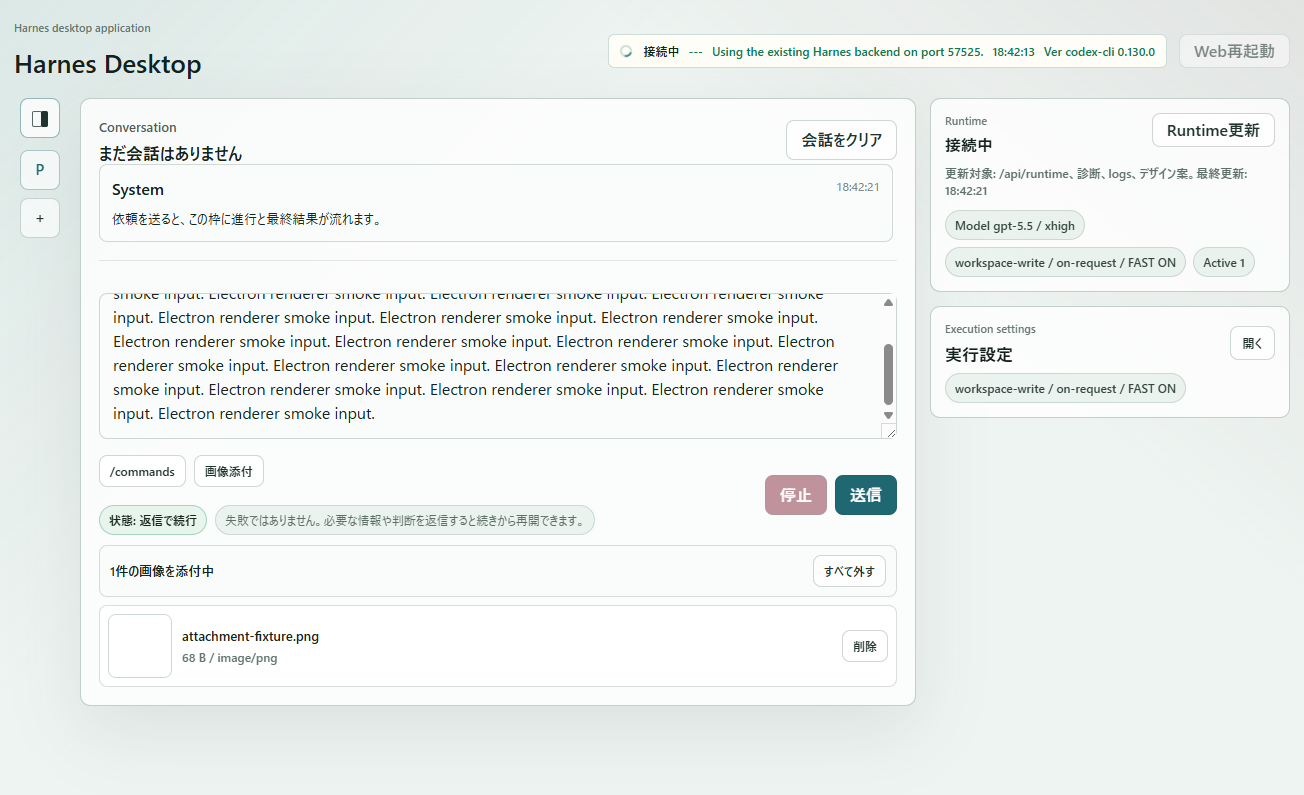
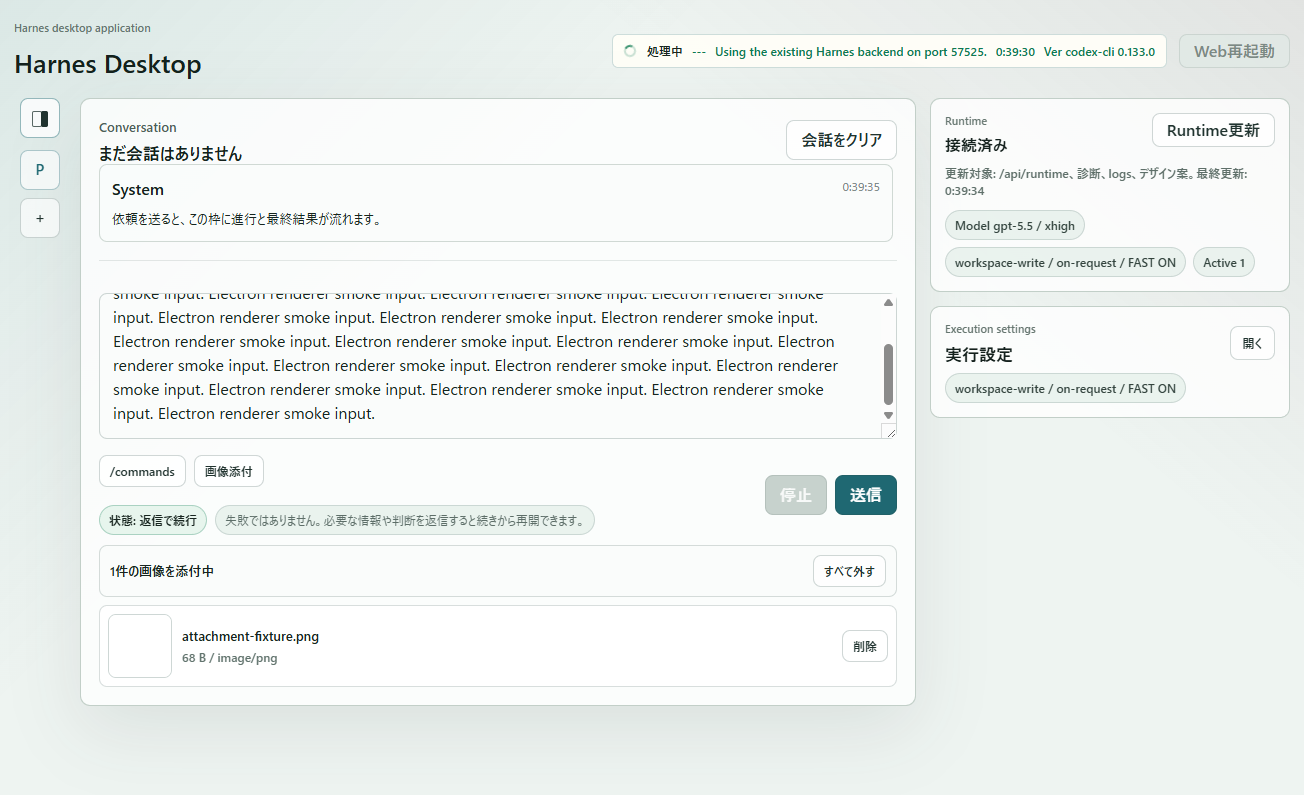
Harden Electron HarnesUI verification

diff --git a/desktop/harnes-electron/src/App.tsx b/desktop/harnes-electron/src/App.tsx
@@ -573,6 +573,9 @@ export default function App() {
     activeChat ? activeRequests.find((request) => request.chatId === activeChat.id) || null : null
   ), [activeChat, activeRequests]);
   const hasActiveRequests = activeRequests.length > 0;
+  const activeExec = runtimeActiveExecCount(runtime);
+  const topbarBusy = hasActiveRequests || activeExec > 0;
+  const codexVersionLabel = codexCliVersionLabel(diagnostics);
   const existingWebUiUrl = useMemo(() => joinUrl(backendUrl, "/01.HarnesUI/index.html"), [backendUrl]);
   const proposalUrl = useMemo(() => joinUrl(backendUrl, proposal?.publicPath || "/design-proposals/latest/index.html"), [backendUrl, proposal]);
 
@@ -731,8 +734,15 @@ export default function App() {
     const oldWebStatusLabel = compactText(document.querySelector(".old-web-status strong")?.textContent, "");
     const runtimePanelLabel = compactText(document.querySelector(".runtime-panel h2")?.textContent, "");
     const runningStatusSpinner = document.querySelector(".old-web-status.running .old-web-status-spinner");
+    const processingStatusSpinner = document.querySelector(".old-web-status.processing .old-web-status-spinner");
     const readyStatusSpinnerStopped = backend.status !== "running"
       || Boolean(runningStatusSpinner && window.getComputedStyle(runningStatusSpinner).animationName === "none");
+    const processingStatusSpinnerActive = Boolean(
+      processingStatusSpinner && window.getComputedStyle(processingStatusSpinner).animationName !== "none",
+    );
+    const topbarStatusValid = topbarBusy
+      ? oldWebStatusLabel === "処理中" && processingStatusSpinnerActive
+      : oldWebStatusLabel === "待機中" && readyStatusSpinnerStopped;
     const runtimeRefreshExplained = Boolean(document.querySelector(".runtime-refresh-note"));
     const attachmentRowsReady = Boolean(document.querySelector(".attachment-panel"));
     window.__harnesElectronSmoke = {
@@ -757,13 +767,31 @@ export default function App() {
       missionMetaVisible,
       oldWebStatusVisible,
       oldWebStatusLabel,
+      activeExec,
+      topbarBusy,
+      topbarStatusValid,
       runtimePanelLabel,
       readyStatusSpinnerStopped,
+      processingStatusSpinnerActive,
+      runtimeRefreshIdle: !runtimeRefreshState.loading,
+      codexCliVersionReady: !codexVersionLabel.includes("未読込"),
       runtimeRefreshExplained,
       attachmentRowsReady,
       layoutOk,
     };
-  }, [backend.status, logs?.entries?.length, proposal?.proposalTitle, proposalUrl, runtime, sidebarOpen, runtimeRefreshState.lastAt]);
+  }, [
+    activeExec,
+    backend.status,
+    logs?.entries?.length,
+    proposal?.proposalTitle,
+    proposalUrl,
+    codexVersionLabel,
+    runtime,
+    runtimeRefreshState.loading,
+    runtimeRefreshState.lastAt,
+    sidebarOpen,
+    topbarBusy,
+  ]);
 
   const openLocal = useCallback((target: string) => {
     if (window.harnesDesktop) {
@@ -783,16 +811,24 @@ export default function App() {
 
   const deleteActiveChat = useCallback(() => {
     if (!activeChat) return;
+    if (activeChatRequest) {
+      setLoadError("実行中の依頼は、停止してから削除してください。");
+      return;
+    }
     setChats((current) => {
       const next = current.filter((chat) => chat.id !== activeChat.id);
       const fallback = next[0] || createChat();
       setActiveChatId(fallback.id);
       return next.length ? next : [fallback];
     });
-  }, [activeChat]);
+  }, [activeChat, activeChatRequest]);
 
   const clearActiveChat = useCallback(() => {
     if (!activeChat) return;
+    if (activeChatRequest) {
+      setLoadError("実行中の依頼は、停止してからクリアしてください。");
+      return;
+    }
     patchChat(activeChat.id, (chat) => ({
       ...chat,
       messages: [],
@@ -803,7 +839,7 @@ export default function App() {
       forceNewSession: true,
       updatedAt: new Date().toISOString(),
     }));
-  }, [activeChat, patchChat]);
+  }, [activeChat, activeChatRequest, patchChat]);
 
   const updateSetting = useCallback(<K extends keyof RunSettings>(key: K, value: RunSettings[K]) => {
     setSettings((current) => ({ ...current, [key]: value }));
@@ -911,7 +947,6 @@ export default function App() {
     }
   }, [activeChat, activeChatRequest, attachments, mission, patchChat, runtime?.activeAgent, runtime?.workspaceRoot, settings]);
 
-  const activeExec = runtimeActiveExecCount(runtime);
   const activeChatWorkState = workStateForChat(activeChat, {
     activeForChat: Boolean(activeChatRequest),
     runtimeBusy: activeExec > 0 && !hasActiveRequests,
@@ -991,10 +1026,8 @@ export default function App() {
   const runtimeModeLabel = runtime?.mode === "app-server" ? "接続済み" : "未接続";
   const runtimeModelLabel = `${asText(runtime?.execApi?.defaultModel, settings.model)} / ${asText(runtime?.execApi?.modelReasoningEffort, settings.modelReasoningEffort)}`;
   const runSettingsSummary = `${settings.sandboxMode} / ${settings.approvalPolicy} / FAST ${settings.fastModeEnabled ? "ON" : "OFF"}`;
-  const codexVersionLabel = codexCliVersionLabel(diagnostics);
   const runtimeRefreshLabel = timeLabelFromIso(runtimeRefreshState.lastAt, "未取得");
   const runtimeReady = runtime?.mode === "app-server";
-  const topbarBusy = hasActiveRequests || activeExec > 0;
   const topbarStatusView = { busy: topbarBusy, runtimeReady };
   const topbarStatusDetail = compactText(backend.message, runtime?.mode === "app-server" ? "backend ready" : "runtime未読込");
   const showServerRecovery = backend.status !== "running";
@@ -1073,8 +1106,8 @@ export default function App() {
                   ))}
                 </div>
                 <div className="sidebar-actions">
-                  <button className="secondary" type="button" onClick={deleteActiveChat}>Delete</button>
-                  <button className="secondary" type="button" onClick={clearActiveChat}>Clear</button>
+                  <button className="secondary" type="button" onClick={deleteActiveChat} disabled={Boolean(activeChatRequest)}>Delete</button>
+                  <button className="secondary" type="button" onClick={clearActiveChat} disabled={Boolean(activeChatRequest)}>Clear</button>
                 </div>
               </section>
             </div>
@@ -1096,7 +1129,7 @@ export default function App() {
                 <h2>{activeChat?.messages.length ? `${activeChat.messages.length} messages` : "まだ会話はありません"}</h2>
               </div>
               <div className="conversation-actions">
-                <button className="secondary" type="button" onClick={clearActiveChat}>会話をクリア</button>
+                <button className="secondary" type="button" onClick={clearActiveChat} disabled={Boolean(activeChatRequest)}>会話をクリア</button>
               </div>
             </div>
             <div className="timeline">

diff --git a/scripts/electron_harnesui_static_test.js b/scripts/electron_harnesui_static_test.js
@@ -110,11 +110,13 @@ mustInclude(main, "sidebarVisible", "Electron main smoke requires visible sideba
 mustInclude(main, "proposalDockVisible", "Electron main smoke requires left proposal dock");
 mustInclude(main, "missionMetaVisible", "Electron main smoke requires compact mission state");
 mustInclude(main, "oldWebStatusVisible", "Electron main smoke requires old-web status strip");
-mustInclude(main, 'oldWebStatusLabel === "待機中"', "Electron main smoke requires idle topbar work-state label");
+mustInclude(main, "topbarStatusValid", "Electron main smoke accepts either idle or live-busy topbar state");
 mustInclude(main, 'runtimePanelLabel === "接続済み"', "Electron main smoke requires connected runtime panel label");
-mustInclude(main, "readyStatusSpinnerStopped", "Electron main smoke requires stopped ready-state spinner");
+mustInclude(main, "runtimeRefreshIdle", "Electron main smoke requires the refresh cycle to finish before screenshot proof");
+mustInclude(main, "codexCliVersionReady", "Electron main smoke requires the codex-cli version label to load before screenshot proof");
 mustInclude(main, "runtimeRefreshExplained", "Electron main smoke requires runtime refresh explanation");
 mustInclude(main, "attachmentRowsReady", "Electron main smoke requires attachment row surface");
+mustInclude(main, "showInactive", "Electron main smoke must paint hidden windows before screenshot capture");
 mustInclude(main, "capturePage", "Electron main smoke must capture screenshot evidence");
 mustInclude(main, "electron-harnesui", "Electron main smoke screenshot output path");
 mustInclude(main, "harnes:lock-workspace", "Electron main");
@@ -186,6 +188,10 @@ mustInclude(app, "attachment-thumb", "Electron renderer attachment thumbnails");
 mustInclude(app, "activeChat ? activeRequests.find((request) => request.chatId === activeChat.id)", "Electron renderer resolves the active request for the current chat only");
 mustInclude(app, "&& !activeChatRequest", "Electron renderer submit eligibility is scoped to the active chat");
 mustInclude(app, "disabled={!activeChatRequest}", "Electron renderer stop button is scoped to the active chat");
+mustInclude(app, "停止してから削除してください", "Electron renderer blocks active chat deletion while a request is running");
+mustInclude(app, "停止してからクリアしてください", "Electron renderer blocks active chat clearing while a request is running");
+mustInclude(app, 'onClick={deleteActiveChat} disabled={Boolean(activeChatRequest)}', "Electron renderer disables active chat delete while a request is running");
+mustInclude(app, 'onClick={clearActiveChat} disabled={Boolean(activeChatRequest)}', "Electron renderer disables active chat clear while a request is running");
 mustInclude(app, "activeRequests.some((request) => request.chatId === chat.id)", "Electron renderer sidebar marks only the running chat");
 mustNotInclude(app, "const [activeRequest, setActiveRequest]", "Electron renderer must not keep a single global active request");
 mustNotInclude(app, "disabled={!activeRequest}", "Electron renderer stop button must not follow a global active request");
@@ -201,8 +207,13 @@ mustNotInclude(conversationActionsBlock, "activeChatWorkState", "Electron render
 mustInclude(app, "missionMetaVisible", "Electron smoke proves compact mission state visibility");
 mustInclude(app, "oldWebStatusVisible", "Electron smoke proves old-web status visibility");
 mustInclude(app, "oldWebStatusLabel", "Electron smoke proves the topbar status label text");
+mustInclude(app, "topbarBusy", "Electron smoke distinguishes idle and live-busy topbar states");
+mustInclude(app, "topbarStatusValid", "Electron smoke proves topbar state matches active runtime work");
 mustInclude(app, "runtimePanelLabel", "Electron smoke proves the runtime panel label text");
 mustInclude(app, "readyStatusSpinnerStopped", "Electron smoke proves ready backend status is not animated");
+mustInclude(app, "processingStatusSpinnerActive", "Electron smoke proves active backend status is animated");
+mustInclude(app, "runtimeRefreshIdle", "Electron smoke waits for refresh to finish before proof capture");
+mustInclude(app, "codexCliVersionReady", "Electron smoke waits for diagnostics/version label before proof capture");
 mustInclude(app, "runtimeRefreshExplained", "Electron smoke proves runtime refresh explanation");
 mustInclude(app, "attachmentRowsReady", "Electron smoke proves attachment row surface");
 mustInclude(app, 'status: chat.status === "running" ? "completed" : chat.status', "Electron renderer stream-end fallback must not leave running");
@@ -292,6 +303,8 @@ mustInclude(styles, ".old-web-status", "Electron CSS old-web status strip");
 mustInclude(styles, ".old-web-status.running .old-web-status-spinner", "Electron CSS ready backend indicator must stop spinning");
 mustInclude(styles, ".old-web-status.processing .old-web-status-spinner", "Electron CSS processing backend indicator must spin");
 mustInclude(styles, "animation: none", "Electron CSS ready backend indicator must not animate");
+mustInclude(styles, ".primary:disabled", "Electron CSS must make disabled primary/danger controls visually inactive");
+mustInclude(styles, ".danger-button:disabled", "Electron CSS must make disabled stop controls visually inactive");
 mustInclude(styles, ".old-web-version", "Electron CSS visible version label");
 mustInclude(styles, ".work-state-meta", "Electron CSS composer work state metadata");
 mustInclude(styles, ".command-strip", "Electron CSS command palette layout");

diff --git a/scripts/electron_harnesui_status_send_reenable_test.js b/scripts/electron_harnesui_status_send_reenable_test.js
@@ -23,14 +23,59 @@ async function getSendButtonState(page) {
     const send = buttons.find((button) => (button.textContent || "").trim() === "送信");
     const stop = buttons.find((button) => (button.textContent || "").trim() === "停止");
     const textarea = document.querySelector("textarea");
-    const workState = document.querySelector(".work-state-pill");
+    const workState = document.querySelector(".work-state-meta");
     const root = document.documentElement;
     const activeText = document.body.innerText;
+    const clipped = Array.from(document.querySelectorAll("button, select, textarea, .panel, .chat-row, .message, .status-pill, .old-web-status, .runtime-refresh-note, .work-state-meta span, .attachment-panel, .attachment-item, .attachment-copy strong, .attachment-copy span"))
+      .map((element) => {
+        const rect = element.getBoundingClientRect();
+        const style = window.getComputedStyle(element);
+        const allowsScroll = ["auto", "scroll"].includes(style.overflowX) || ["auto", "scroll"].includes(style.overflow);
+        return {
+          tag: element.tagName.toLowerCase(),
+          className: typeof element.className === "string" ? element.className : "",
+          text: (element.textContent || "").replace(/\s+/g, " ").trim().slice(0, 90),
+          width: Math.round(rect.width),
+          height: Math.round(rect.height),
+          scrollWidth: element.scrollWidth,
+          clientWidth: element.clientWidth,
+          clippedX: element.scrollWidth > element.clientWidth + 2 && !allowsScroll,
+        };
+      })
+      .filter((item) => item.width > 0 && item.height > 0 && item.clippedX);
+    const panels = Array.from(document.querySelectorAll(".panel"))
+      .map((element) => {
+        const rect = element.getBoundingClientRect();
+        return {
+          className: typeof element.className === "string" ? element.className : "",
+          x: rect.x,
+          y: rect.y,
+          right: rect.right,
+          bottom: rect.bottom,
+          width: rect.width,
+          height: rect.height,
+        };
+      })
+      .filter((box) => box.width > 0 && box.height > 0);
+    const overlaps = [];
+    for (let i = 0; i < panels.length; i += 1) {
+      for (let j = i + 1; j < panels.length; j += 1) {
+        const a = panels[i];
+        const b = panels[j];
+        const width = Math.min(a.right, b.right) - Math.max(a.x, b.x);
+        const height = Math.min(a.bottom, b.bottom) - Math.max(a.y, b.y);
+        if (width > 2 && height > 2) {
+          overlaps.push({ a: a.className, b: b.className, width: Math.round(width), height: Math.round(height) });
+        }
+      }
+    }
     return {
       sendFound: Boolean(send),
       sendDisabled: send ? send.disabled : null,
       sendButtonClipped: send ? send.scrollWidth > send.clientWidth + 1 || send.scrollHeight > send.clientHeight + 1 : null,
       horizontalOverflow: root ? root.scrollWidth > window.innerWidth + 1 : null,
+      clipped,
+      overlaps,
       viewportWidth: window.innerWidth,
       scrollWidth: root ? root.scrollWidth : null,
       stopDisabled: stop ? stop.disabled : null,
@@ -99,6 +144,8 @@ async function main() {
     if (state.sendDisabled !== false) fail("Electron send button must remain pressable after /status returns", state);
     if (state.sendButtonClipped !== false) fail("Electron send button copy is clipped after /status returns", state);
     if (state.horizontalOverflow !== false) fail("Electron /status returned state has horizontal overflow", state);
+    if (state.clipped.length) fail("Electron /status returned state has clipped UI copy", state);
+    if (state.overlaps.length) fail("Electron /status returned state has overlapping panels", state);
     await captureEvidence(page, "electron-status-returned", state);
 
     await page.locator("textarea").first().fill("/fast status");
@@ -117,6 +164,8 @@ async function main() {
     if (state.sendDisabled !== false) fail("Electron send button must remain pressable after /fast status returns", state);
     if (state.sendButtonClipped !== false) fail("Electron send button copy is clipped after /fast status returns", state);
     if (state.horizontalOverflow !== false) fail("Electron /fast status returned state has horizontal overflow", state);
+    if (state.clipped.length) fail("Electron /fast status returned state has clipped UI copy", state);
+    if (state.overlaps.length) fail("Electron /fast status returned state has overlapping panels", state);
     await captureEvidence(page, "electron-fast-status-returned", state);
   } finally {
     await app.close().catch(() => {});

diff --git a/desktop/harnes-electron/src/types.ts b/desktop/harnes-electron/src/types.ts
@@ -190,8 +190,14 @@ declare global {
       missionMetaVisible?: boolean;
       oldWebStatusVisible?: boolean;
       oldWebStatusLabel?: string;
+      activeExec?: number;
+      topbarBusy?: boolean;
+      topbarStatusValid?: boolean;
       runtimePanelLabel?: string;
       readyStatusSpinnerStopped?: boolean;
+      processingStatusSpinnerActive?: boolean;
+      runtimeRefreshIdle?: boolean;
+      codexCliVersionReady?: boolean;
       runtimeRefreshExplained?: boolean;
       attachmentRowsReady?: boolean;
       layoutOk?: boolean;

diff --git a/desktop/harnes-electron/src/styles.css b/desktop/harnes-electron/src/styles.css
@@ -46,7 +46,17 @@ button {
 
 button:disabled {
   cursor: not-allowed;
-  opacity: 0.55;
+  border-color: rgba(98, 117, 110, 0.18);
+  background: rgba(225, 233, 229, 0.82);
+  color: #7b8984;
+  opacity: 1;
+}
+
+.primary:disabled,
+.danger-button:disabled {
+  border-color: rgba(98, 117, 110, 0.18);
+  background: #c7d2cd;
+  color: rgba(255, 255, 255, 0.88);
 }
 
 input,
